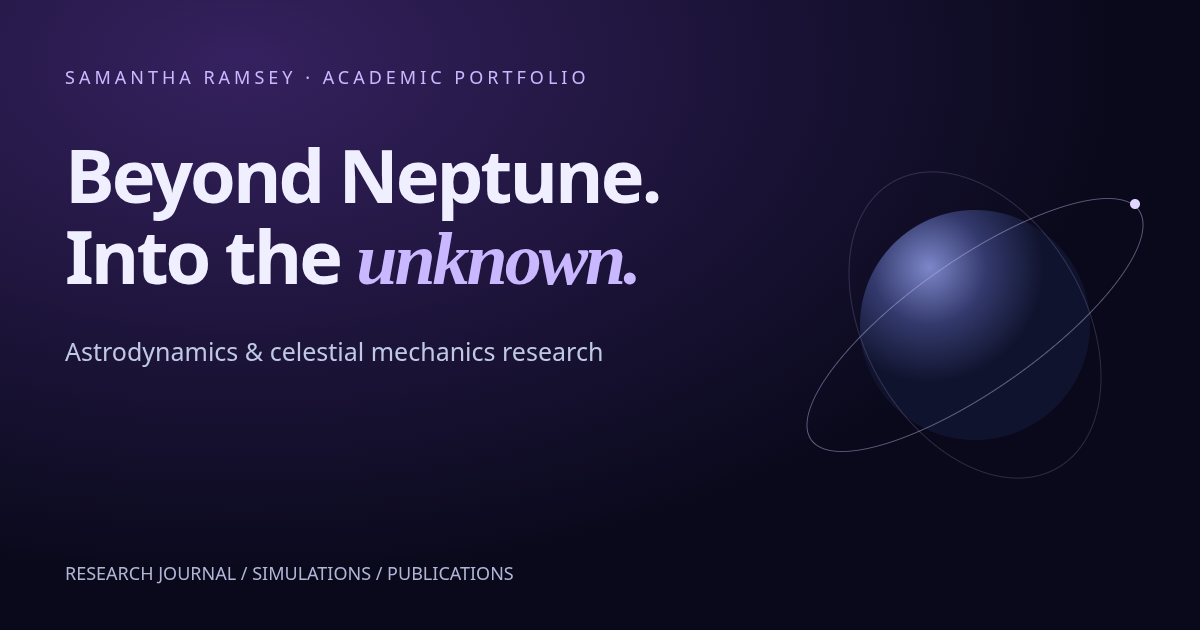
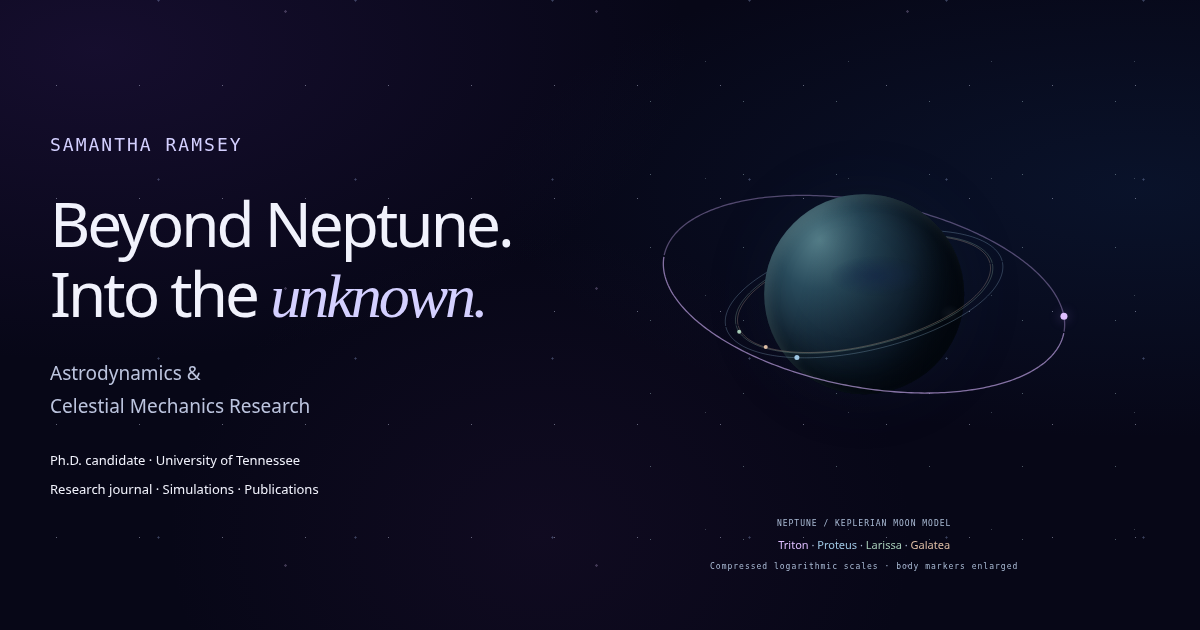
Refresh social sharing card with current academic identity and Neptune design

diff --git a/render.js b/render.js
@@ -1,7 +1,9 @@
 import { readFile } from 'node:fs/promises';
+import { createHash } from 'node:crypto';
 import { overview, journal, simulations } from './src/views.js';
 import { publicationsPage, publications, escapeHTML } from './src/publications.js';
 const root = new URL('./src/', import.meta.url);
+const socialCardVersion=createHash('sha256').update(await readFile(new URL('assets/social-card.png',root))).digest('hex').slice(0,12);
 export const pages = {
  '/': {title:'Samantha Ramsey | Astrodynamics & Celestial Mechanics Research', description:'Explore Samantha Ramsey’s research in trans-Neptunian dynamics, aerospace engineering experience, publications, and interactive orbital mechanics demonstrations.'},
  '/journal': {title:'CR3BP Research Journal | Samantha Ramsey', description:'Derivations, reference frames, Jacobi integral, zero-velocity geometry, and numerical verification for Sun–Neptune circular restricted three-body dynamics.'},
@@ -39,7 +41,7 @@ export async function renderPage(route, origin='') {
  <meta name="twitter:card" content="summary_large_image">
  <meta name="twitter:title" content="${escapeHTML(meta.title)}">
  <meta name="twitter:description" content="${escapeHTML(meta.description)}">
- ${canonical?`<link rel="canonical" href="${escapeHTML(canonical)}"><meta property="og:url" content="${escapeHTML(canonical)}"><meta property="og:image" content="${origin}/assets/social-card.png"><meta property="og:image:width" content="1200"><meta property="og:image:height" content="630"><meta property="og:image:alt" content="Samantha Ramsey — research beyond Neptune"><meta name="twitter:image" content="${origin}/assets/social-card.png">`:''}
+ ${canonical?`<link rel="canonical" href="${escapeHTML(canonical)}"><meta property="og:url" content="${escapeHTML(canonical)}"><meta property="og:image" content="${origin}/assets/social-card.png?v=${socialCardVersion}"><meta property="og:image:width" content="1200"><meta property="og:image:height" content="630"><meta property="og:image:alt" content="Samantha Ramsey, Ph.D. candidate — Astrodynamics and Celestial Mechanics Research"><meta name="twitter:image" content="${origin}/assets/social-card.png?v=${socialCardVersion}"><meta name="twitter:image:alt" content="Samantha Ramsey, Ph.D. candidate — Astrodynamics and Celestial Mechanics Research">`:''}
  <script type="application/ld+json">${JSON.stringify(structuredData(route,origin)).replaceAll('<','\\u003c')}</script>
  ${route==='/journal'?'<link rel="stylesheet" href="/vendor/katex/katex.min.css">':''}`;
  let template=await readFile(new URL('index.html',root),'utf8');

diff --git a/server.test.js b/server.test.js
@@ -34,7 +34,8 @@ test('all four routes serve unique, indexable HTML without needing JavaScript', 
 test('production SEO uses the configured origin, correct schemas and all four sitemap URLs', async()=>{
   const html=await(await fetch(publicBase+'/publications')).text();
   assert.match(html,/<link rel="canonical" href="https:\/\/portfolio.example\/publications">/);
-  assert.match(html,/property="og:image"/);
+  assert.match(html,/property="og:image" content="https:\/\/portfolio.example\/assets\/social-card\.png\?v=[a-f0-9]{12}"/);
+  assert.match(html,/name="twitter:image:alt"/);
   const schema=JSON.parse(html.match(/<script type="application\/ld\+json">(.*?)<\/script>/s)[1]);
   assert.equal(schema['@graph'].filter(node=>node['@type']==='ScholarlyArticle').length,3);
   const sitemap=await(await fetch(publicBase+'/sitemap.xml')).text();
